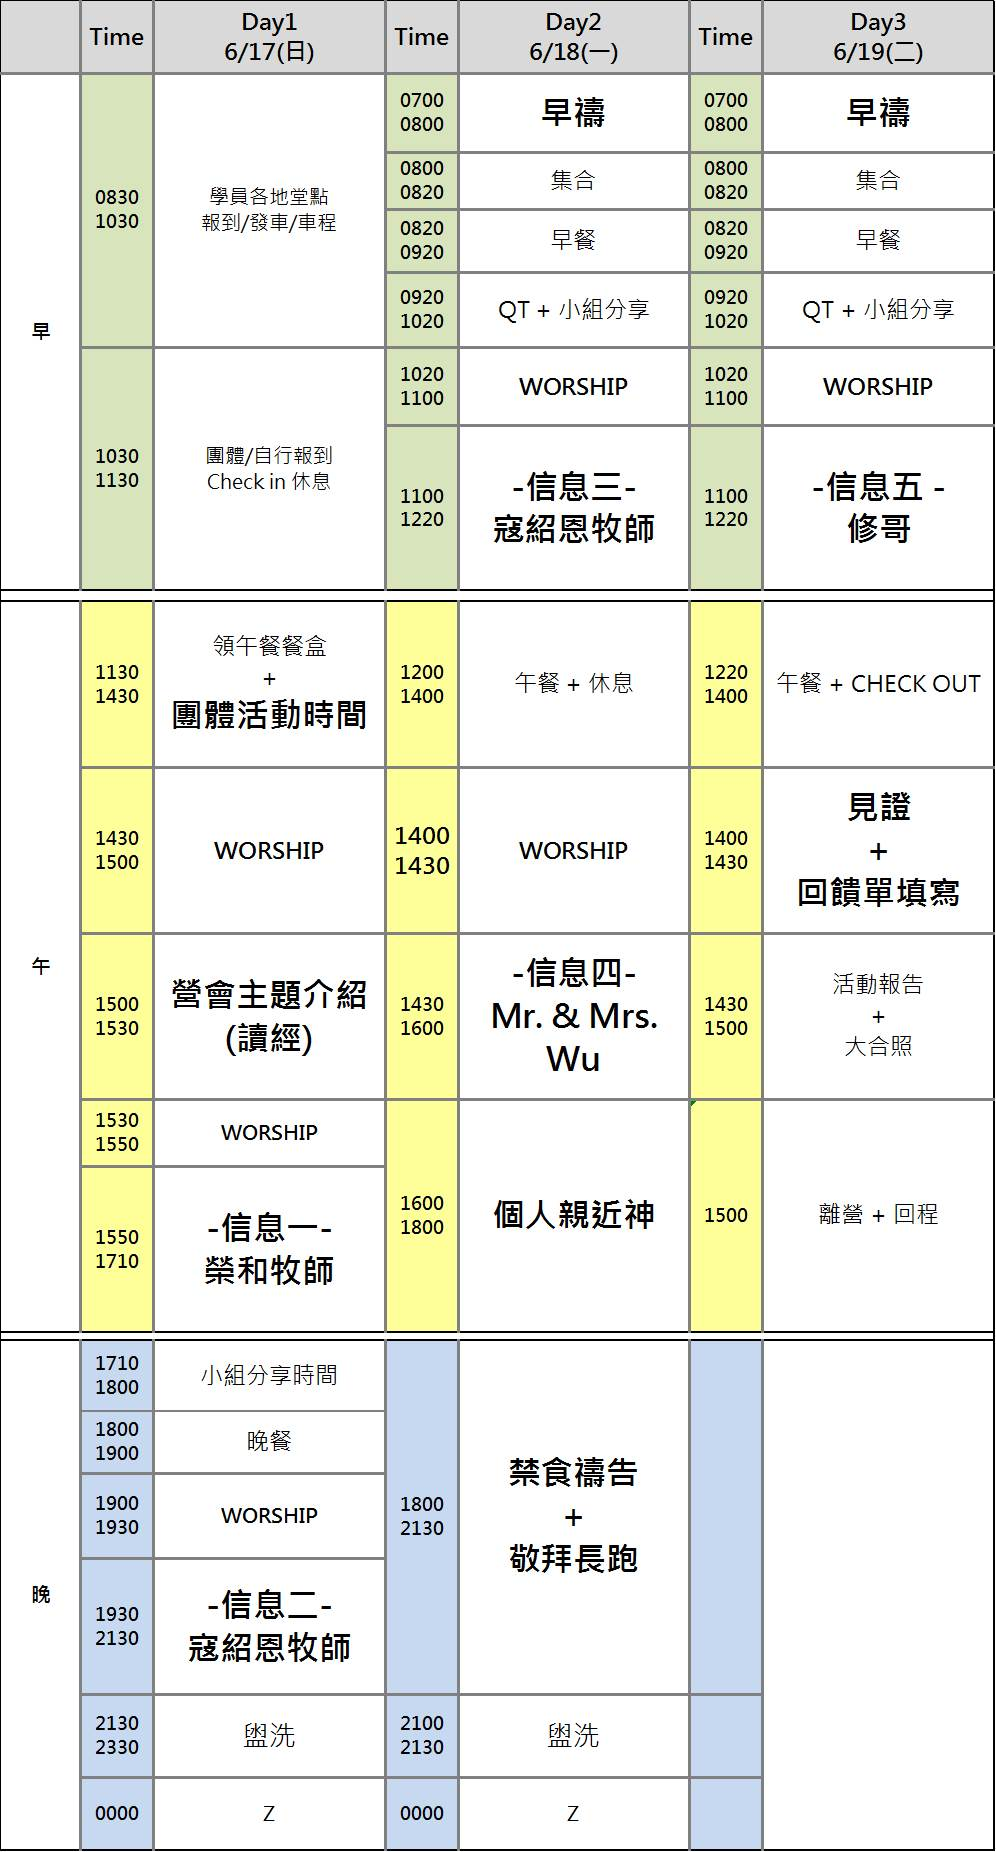
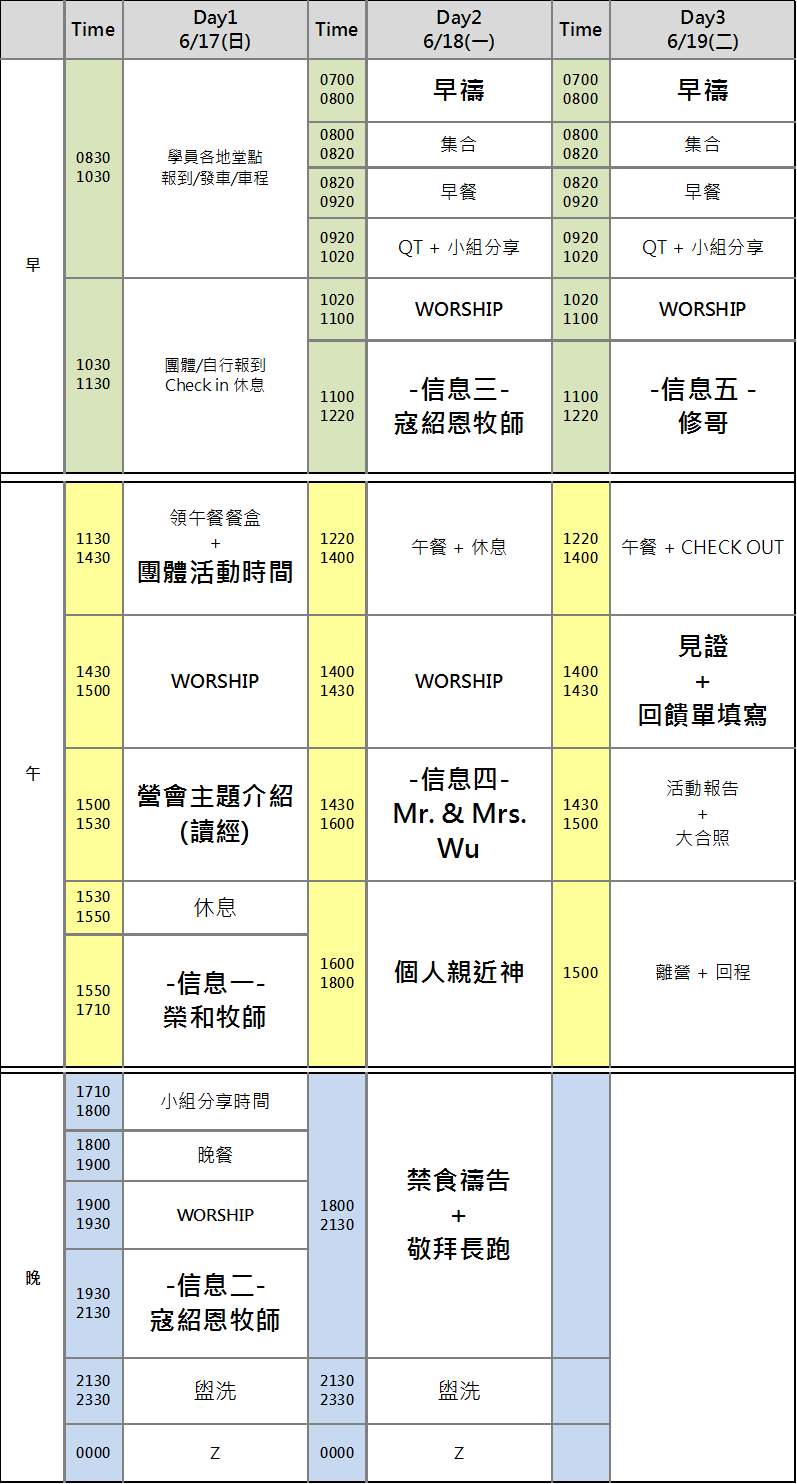
更新行程表跟問卷

diff --git a/app/containers/Questionnaire.js b/app/containers/Questionnaire.js
@@ -18,7 +18,7 @@ export default class Questionnaire extends React.Component {
           onLoad={this.handleOnLoad}
           ref={'webview'}
           automaticallyAdjustContentInsets={false}
-          source={{uri: 'https://billyoungdi.typeform.com/to/cHd1k0'}}
+          source={{uri: 'https://billyoungdi.typeform.com/to/vbGRv7'}}
           javaScriptEnabled={true}
           scalesPageToFit={true}
         />
